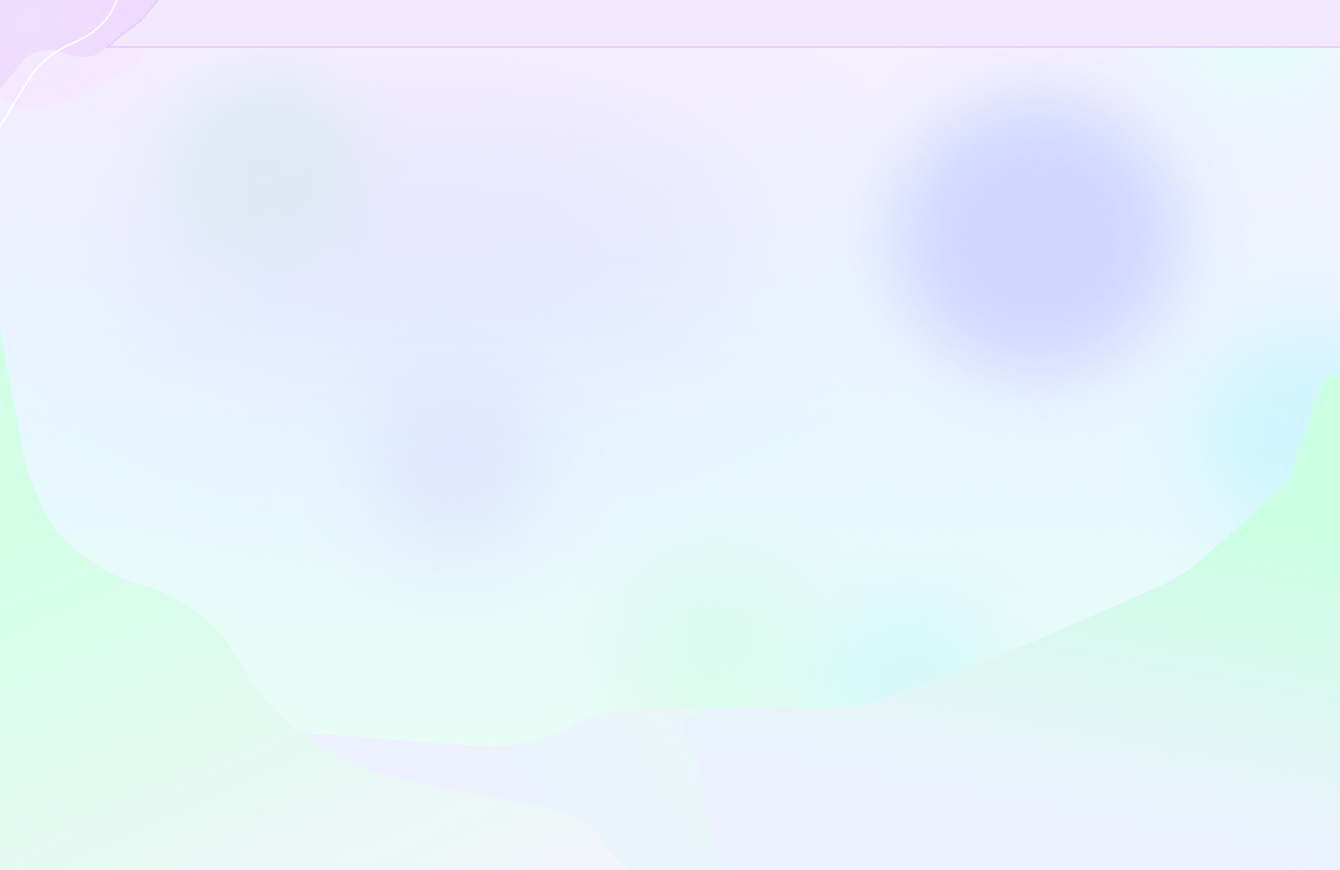
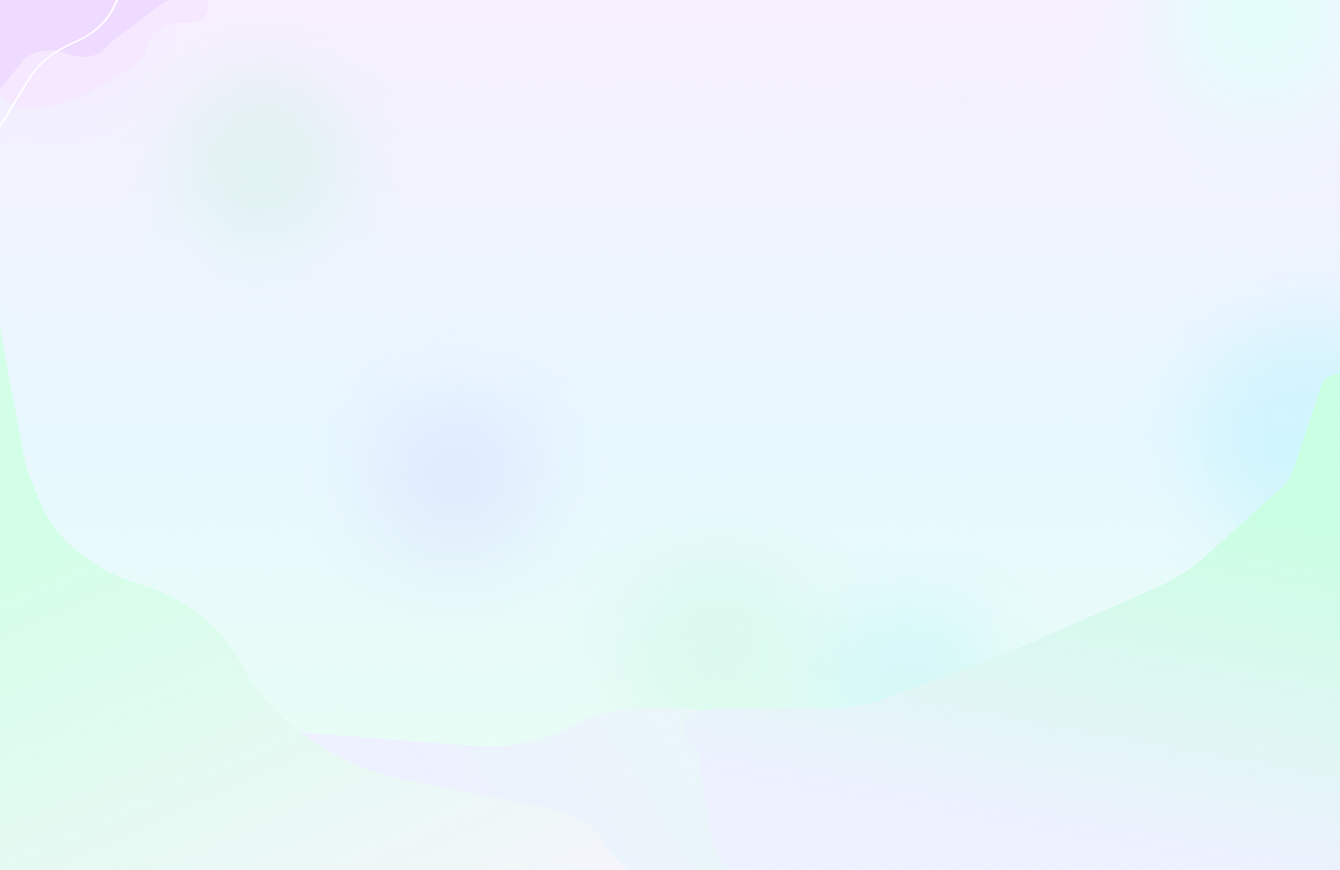
Polish shared controls and keep chat panes independently scrollable

Changed region(s): [[0.6839, 0.1222, 0.8704, 0.3971]]

diff --git a/src/styles.css b/src/styles.css
@@ -18,9 +18,8 @@
 * { box-sizing: border-box; }
 html { scroll-padding-top: 84px; }
 body { margin: 0; min-width: 0; min-height: 100vh; isolation: isolate; }
-/* The original background includes a 54px header strip. Keep that strip above
-   the viewport, and size the artwork to the viewport rather than a long page. */
-body::before { content: ''; position: fixed; inset: calc(-1 * max(64px, 3.6vw, 6svh)) 0 0; z-index: -1; pointer-events: none; background: url('./bg.png') center bottom / cover no-repeat; }
+/* Exported from the concept background frame; keep the wave anchored at the upper left. */
+body::before { content: ''; position: fixed; inset: 0; z-index: -1; pointer-events: none; background: url('./bg.png') left top / cover no-repeat; }
 button, input, select, textarea { font: inherit; }
 button, a, summary { -webkit-tap-highlight-color: transparent; }
 button, summary { cursor: pointer; }
@@ -41,7 +40,7 @@ h1:focus, main:focus { outline: none; }
 .icon { display: inline-block; width: 24px; height: 24px; flex: 0 0 24px; background: currentColor; -webkit-mask: var(--icon-url) center / contain no-repeat; mask: var(--icon-url) center / contain no-repeat; }
 .skip-link { position: fixed; top: 8px; left: 16px; z-index: 100; background: white; padding: 14px; border-radius: 10px; transform: translateY(-180%); }
 .skip-link:focus { transform: none; }
-.button { display: inline-flex; align-items: center; justify-content: center; gap: 8px; padding: 12px 24px; min-height: 44px; border: 1px solid transparent; background: #b185f7; color: #332052; border-radius: 12px; font-weight: 500; text-align: center; line-height: 1.35; cursor: pointer; transition: filter .15s, box-shadow .15s; }
+.button { display: inline-flex; align-items: center; justify-content: center; gap: 8px; padding: 12px 24px; min-height: 44px; border: 1px solid transparent; background: #8b56d9; color: white; border-radius: 12px; font-weight: 500; text-align: center; line-height: 1.35; cursor: pointer; transition: filter .15s, box-shadow .15s; }
 .button:hover { filter: brightness(.96); text-decoration: none; box-shadow: 0 3px 10px #65608019; }
 .button-blue { background: #2470ac; color: white; border-color: #1a577f; }
 .button-green { background: #4b9679; color: #071f18; border-color: #37775f; }
@@ -58,10 +57,10 @@ h1:focus, main:focus { outline: none; }
 .brand span { font-size: 18px; color: #111; font-weight: 800; letter-spacing: -.5px; }
 .brand:hover { text-decoration: none; }
 .language-button { border: 0; background: #b7bcff; border-radius: 24px; min-height: 44px; padding: 8px 12px; color: #2f335e; font-size: 12px; }
-.desktop-nav { display: flex; align-items: center; justify-content: center; gap: 26px; margin: auto; }
-.desktop-nav a { padding: 10px 12px; min-height: 44px; min-width: 116px; display: flex; align-items: center; justify-content: center; border-radius: 25px; background: #8b56d9; color: white; font-size: 12px; font-weight: 500; border: 1px solid #8b56d9; }
+.desktop-nav { display: flex; align-items: center; justify-content: center; gap: 8px; margin: auto; }
+.desktop-nav a { padding: 10px 12px; min-height: 44px; min-width: 116px; display: flex; align-items: center; justify-content: center; border-radius: 14px; background: #8b56d9; color: white; font-size: 13px; font-weight: 500; border: 1px solid #8b56d9; box-shadow: 0 2px 6px #8b56d912; }
 .desktop-nav a.active { background: #dfebff; border-color: #b8c6eb; color: #24263b; }
-.desktop-nav a:hover { text-decoration: none; filter: brightness(.97); }
+.desktop-nav a:hover { text-decoration: none; filter: brightness(.97); box-shadow: 0 3px 10px #7954b926; }
 .header-actions { display: flex; align-items: center; gap: 10px; margin-left: auto; }
 .button-header { min-height: 44px; font-size: 14px; padding: 9px 18px; background: #8b56d9; color: white; white-space: nowrap; flex-shrink: 0; }
 .header-join-short { display: none; }
@@ -100,7 +99,9 @@ h1:focus, main:focus { outline: none; }
 .community-note { margin: 28px 0 0; color: var(--muted); font-size: 15px; max-width: 920px; }
 .people-tools { display: grid; grid-template-columns: minmax(180px,240px) minmax(0,570px); align-items: end; gap: 20px; }
 .people-tools .field { margin-bottom: 0; }
-.people-tools .field select { min-height: 50px; padding: 10px 18px; }
+.people-tools .language-field { position: relative; }
+.people-tools .language-field::after { content: ''; position: absolute; right: 20px; bottom: 22px; width: 8px; height: 8px; border-right: 2px solid #5b4b80; border-bottom: 2px solid #5b4b80; transform: rotate(45deg); pointer-events: none; }
+.people-tools .field select { appearance: none; -webkit-appearance: none; min-height: 50px; padding: 12px 44px 12px 18px; border: 1px solid #c3b2e6; border-radius: 30px; background: #faf7ff; color: #3d2d61; box-shadow: 0 3px 12px #8760c50c; }
 .people-tools .search-box { width: 100%; }
 .fieldset-hint { margin: -8px 0 18px; color: var(--muted); font-size: 14px; max-width: 640px; }
 .site-footer { max-width: 1512px; margin: auto; padding: 12px 52px 24px; display: flex; align-items: center; justify-content: space-between; gap: 12px; color: #62657c; font-size: 13px; }
@@ -131,6 +132,8 @@ input[type=checkbox] { accent-color: #6542a4; width: 20px; height: 20px; flex: 0
 .demo-access .field { margin-bottom: 14px; }
 .search-box { display: flex; align-items: center; gap: 12px; background: white; border-radius: 30px; width: min(100%, 570px); padding: 0 18px; min-height: 50px; color: #676b7e; }
 .search-box input { background: transparent; border: 0; width: 100%; padding: 14px 0; border-radius: 8px; color: var(--ink); font-size: 15px; }
+.search-box:focus-within { outline: 3px solid #5140c9; outline-offset: 4px; }
+.search-box input:focus-visible { outline: none; }
 .search-box input::placeholder { color: #626579; }
 .filters { margin: 16px 0 28px; }
 .filters summary { display: flex; align-items: center; gap: 10px; width: fit-content; min-height: 44px; color: #55596c; list-style: none; }
@@ -172,10 +175,15 @@ input[type=checkbox] { accent-color: #6542a4; width: 20px; height: 20px; flex: 0
 .chip-fieldset legend { font-size: 26px; padding: 0; margin-bottom: 20px; }
 .choice-chips { display: flex; flex-wrap: wrap; gap: 10px; }
 .choice-chip { position: relative; border-radius: 30px; background: #edf3ff; cursor: pointer; }
-.choice-chip input { position: absolute; left: 12px; top: 50%; transform: translateY(-50%); width: 18px; height: 18px; margin: 0; }
+.choice-chip input { appearance: none; -webkit-appearance: none; position: absolute; left: 13px; top: 50%; transform: translateY(-50%); width: 16px; height: 16px; margin: 0; border: 1px solid #a2a8b8; border-radius: 4px; background: #ffffffb3; color: #665583; cursor: pointer; }
+.choice-chip input::before { content: ''; position: absolute; width: 4px; height: 8px; left: 5px; top: 2px; border-right: 1.5px solid currentColor; border-bottom: 1.5px solid currentColor; transform: rotate(45deg); opacity: 0; }
+.choice-chip input:checked { border-color: #9c8eb1; }
+.choice-chip input:checked::before { opacity: 1; }
+.choice-chip.interest input { color: #426b59; }
+.choice-chip.interest input:checked { border-color: #88ad9a; }
 .choice-chip span { display: block; padding: 12px 18px 12px 38px; min-height: 44px; border: 1px solid #aeb8dd; border-radius: 30px; font-size: 14px; }
-.choice-chip.checked.language { background: #dfd1fd; }
-.choice-chip.checked.interest { background: #c8efd9; }
+.choice-chip.checked.language { background: #e8dffc; }
+.choice-chip.checked.interest { background: #ddf2e6; }
 .choice-chip input:focus-visible { outline-offset: 3px; }
 .profile-preview { background: #e5fff0; border-color: #a9d9bc; padding: 32px 24px; position: sticky; top: 94px; min-height: 370px; display: flex; flex-direction: column; }
 .profile-preview .person-heading { flex-wrap: wrap; }
@@ -183,8 +191,9 @@ input[type=checkbox] { accent-color: #6542a4; width: 20px; height: 20px; flex: 0
 .profile-save-mobile { display: none; }
 .back-link { display: inline-flex; align-items: center; justify-content: center; gap: 8px; color: #58358f; min-height: 48px; padding: 12px 18px; margin-bottom: 20px; border: 1px solid #bda8e4; border-radius: 14px; background: #faf7ff; font-weight: 500; touch-action: manipulation; }
 .back-link:hover { background: #eee5ff; text-decoration: none; }
-.study-tabs a { min-height: 52px; font-weight: 500; touch-action: manipulation; }
-.study-tabs a.active { color: #4f319c; background: #e1d7fc; border: 2px solid #9774d2; box-shadow: 0 0 12px #a77bf333; }
+.study-tabs, .question-tabs { max-width: 600px; }
+.study-tabs a, .question-tabs a { min-height: 52px; font-size: 20px; font-weight: 500; touch-action: manipulation; }
+.study-tabs a.active, .question-tabs a.active { color: #4f319c; background: #e1d7fc; border: 2px solid #9774d2; box-shadow: 0 0 12px #a77bf333; }
 .person-layout { display: grid; grid-template-columns: minmax(0,2fr) minmax(300px,1fr); gap: 32px; max-width: 1150px; }
 .person-profile { padding: 32px; }
 .person-profile h3 { margin: 28px 0 14px; }
@@ -251,7 +260,7 @@ input[type=checkbox] { accent-color: #6542a4; width: 20px; height: 20px; flex: 0
 .rating-desktop { position: sticky; top: 96px; }
 .mobile-rating-link { display: none; }
 .study-tabs { margin-bottom: 36px; max-width: 600px; }
-.study-tabs a { font-size: 20px; }
+
 .study-layout { display: grid; grid-template-columns: minmax(0,2fr) minmax(300px,1fr); gap: 34px; align-items: start; }
 .help-cards { display: grid; grid-template-columns: repeat(2,minmax(0,1fr)); gap: 24px; }
 .help-card { padding: 24px; display: flex; flex-direction: column; min-width: 0; }
@@ -281,8 +290,10 @@ input[type=checkbox] { accent-color: #6542a4; width: 20px; height: 20px; flex: 0
 .my-request .field { max-width: 420px; }
 .completed-badge { color: #236748; background: #e3f5e9; border-radius: 12px; padding: 10px; }
 .muted { color: var(--muted); }
-.chats-layout { display: grid; grid-template-columns: minmax(260px,.85fr) minmax(0,2.15fr); gap: 32px; }
-.conversation-list { padding: 24px 18px; }
+.chats-layout { display: grid; grid-template-columns: minmax(260px,.85fr) minmax(0,2.15fr); gap: 32px; height: min(760px,calc(100dvh - 240px)); min-height: 400px; }
+.conversation-list { padding: 24px 18px; display: flex; flex-direction: column; min-height: 0; overflow: hidden; }
+.conversation-list > h2, .conversation-list > .text-link { flex-shrink: 0; }
+.conversation-scroll { flex: 1; min-height: 0; overflow-y: auto; overscroll-behavior: contain; padding: 4px; scrollbar-width: thin; scrollbar-color: #c3b2e6 transparent; }
 .conversation-list h2 { margin-left: 8px; }
 .conversation { display: flex; align-items: center; gap: 12px; padding: 16px 10px; border-radius: 16px; margin-bottom: 10px; }
 .conversation:hover { text-decoration: none; background: #f1efff; }
@@ -291,13 +302,14 @@ input[type=checkbox] { accent-color: #6542a4; width: 20px; height: 20px; flex: 0
 .conversation strong { font-size: 15px; font-weight: 500; display: block; }
 .conversation small { font-size: 13px; color: #606174; margin-top: 8px; display: block; white-space: nowrap; text-overflow: ellipsis; overflow: hidden; }
 .conversation-list .text-link { margin: 10px; }
-.chat-panel { border-color: #ad93ec; padding: 24px; min-width: 0; }
+.chat-panel { border-color: #ad93ec; padding: 24px; min-width: 0; min-height: 0; display: flex; flex-direction: column; }
+.chat-panel > .chat-person, .chat-panel > .message-form { flex-shrink: 0; }
 .chat-person { border-bottom: 1px solid #ece8f5; padding-bottom: 18px; }
 .chat-person .tags { margin: 8px 0 0; }
 .chat-person .tags li { background: transparent; padding: 0; }
-.message-scroll { height: min(48vh,470px); min-height: 250px; overflow: auto; display: flex; flex-direction: column; gap: 16px; padding: 12px 8px; overscroll-behavior: contain; }
+.message-scroll { flex: 1; min-height: 0; overflow: auto; display: flex; flex-direction: column; gap: 16px; padding: 12px 8px; overscroll-behavior: contain; }
 .message-date { font-size: 13px; color: #626579; text-align: center; margin: 0 0 6px; }
-.message { border: 1px solid #cbcbd6; padding: 14px 16px; border-radius: 16px; max-width: 78%; }
+.message { flex-shrink: 0; border: 1px solid #cbcbd6; padding: 14px 16px; border-radius: 16px; max-width: 78%; }
 .message p { white-space: pre-wrap; margin: 0 0 8px; font-size: 15px; }
 .message time { display: block; font-size: 11px; color: #575f74; text-align: right; }
 .message.outgoing { align-self: flex-end; background: #dce4ff; border-color: #a89ef2; }
@@ -305,8 +317,13 @@ input[type=checkbox] { accent-color: #6542a4; width: 20px; height: 20px; flex: 0
 .message-form { position: relative; margin-top: 16px; }
 .message-form .field { margin-bottom: 0; }
 .message-form .field label { position: absolute; height: 1px; width: 1px; overflow: hidden; clip-path: inset(50%); }
-.message-form .field textarea { background: #f7f7fa; border-color: #b7a0e9; padding-right: 58px; min-height: 60px; }
-.send-button { position: absolute; bottom: 34px; right: 8px; color: #51368a; }
+.message-field .field-control { display: flex; align-items: center; gap: 8px; padding: 8px; border: 1px solid #b7a0e9; border-radius: 20px; background: #f7f7fa; }
+.message-field .field-control:focus-within { outline: 3px solid #5140c9; outline-offset: 4px; }
+.message-form .field textarea { background: transparent; border: 0; border-radius: 12px; min-height: 60px; max-height: 180px; padding: 8px 10px; }
+.message-form .field textarea:focus-visible { outline: none; }
+.message-field .field-control:has([aria-invalid=true]) { border-color: #a92540; }
+.send-button { color: #696969; border-radius: 12px; }
+.send-button .icon { width: 33px; height: 33px; flex-basis: 33px; }
 .message-key-hint { font-size: 11px; color: #626579; margin: 8px 0 0; }
 .mobile-back { display: none; }
 .dialog { padding: 28px; width: min(calc(100% - 32px),480px); max-height: calc(100dvh - 32px); overflow: auto; border: 1px solid #c6b1e9; border-radius: 24px; box-shadow: 0 20px 100px #2d1f493b; color: var(--ink); background: #fff; }
@@ -327,10 +344,8 @@ input[type=checkbox] { accent-color: #6542a4; width: 20px; height: 20px; flex: 0
 @media (min-width: 901px) {
   .header-inner { max-width: 1512px; min-height: 54px; padding: 5px 9px; }
   .brand span { font-size: 16px; }
-  .desktop-nav a, .language-button, .button-header { position: relative; isolation: isolate; background: transparent; border: 0; }
-  .desktop-nav a::before, .language-button::before, .button-header::before { content: ''; position: absolute; z-index: -1; inset: 10px 0; border-radius: 11px; background: #8b56d9; pointer-events: none; }
-  .desktop-nav a.active { background: transparent; }
-  .desktop-nav a.active::before { background: #dfeaff; border: 1px solid #a8c6ff; }
+  .language-button, .button-header { position: relative; isolation: isolate; background: transparent; border: 0; }
+  .language-button::before, .button-header::before { content: ''; position: absolute; z-index: -1; inset: 6px 0; border-radius: 12px; background: #8b56d9; pointer-events: none; }
   .language-button { min-width: 67px; }
   .language-button::before { background: #b7bcff; }
   .button-header { min-width: 179px; font-size: 16px; }
@@ -418,8 +433,9 @@ input[type=checkbox] { accent-color: #6542a4; width: 20px; height: 20px; flex: 0
   .bottom-nav a { display: flex; flex-direction: column; align-items: center; justify-content: center; gap: 7px; color: #5f6172; min-height: 54px; padding: 2px; }
   .bottom-nav a:hover { text-decoration: none; }
   .bottom-nav span:last-child { font-size: 11px; padding: 4px 9px; border-radius: 20px; line-height: 1.25; }
-  .bottom-nav a.active { color: #202033; }
-  .bottom-nav a.active span:last-child { background: #dceaff; }
+  .bottom-nav a { border-radius: 16px; margin-inline: 2px; }
+  .bottom-nav a.active { color: #4f319c; background: #e0dcff; }
+  .bottom-nav a.active span:last-child { font-weight: 600; }
   .toast { bottom: calc(88px + env(safe-area-inset-bottom)); width: calc(100% - 32px); }
   .auth-panel { padding: 24px 20px; }
   .segmented { gap: 8px; }
@@ -472,7 +488,7 @@ input[type=checkbox] { accent-color: #6542a4; width: 20px; height: 20px; flex: 0
   .rating-list .avatar { width: 36px; height: 36px; font-size: 14px; }
   .rating-list small { font-size: 11px; }
   .study-tabs { margin-bottom: 24px; }
-  .study-tabs a { font-size: 15px; }
+  .study-tabs a, .question-tabs a { font-size: 15px; }
   .study-request-layout { grid-template-columns: 1fr; gap: 20px; }
   .help-form h2 { font-size: 23px; }
   .help-form .button { min-width: 0; width: 100%; }
@@ -482,8 +498,8 @@ input[type=checkbox] { accent-color: #6542a4; width: 20px; height: 20px; flex: 0
   .help-cards .load-more { grid-column: auto; }
   .help-card { padding: 22px; }
   .help-card h2 { font-size: 20px; }
-  .chats-layout { display: block; }
-  .conversation-list { padding: 20px 14px; }
+  .chats-layout { display: block; height: auto; min-height: 0; }
+  .conversation-list { padding: 20px 14px; height: calc(100dvh - 240px); min-height: 340px; }
   .chats-layout:not(.chat-open) .chat-panel { display: none; }
   .chats-layout.chat-open .conversation-list { display: none; }
   .site-main:has(.chat-open) { padding-top: 16px; padding-bottom: 20px; }
@@ -495,15 +511,15 @@ input[type=checkbox] { accent-color: #6542a4; width: 20px; height: 20px; flex: 0
   .chat-person h2 { font-size: 18px; }
   .chat-person .tags li { font-size: 11px; }
   .mobile-back { display: inline-flex; margin-bottom: 14px; }
-  .message-scroll { height: calc(100dvh - 435px); min-height: 200px; padding: 8px 0; }
-  .chat-open .message-scroll { flex: 1; height: auto; min-height: 100px; }
+  .message-scroll { padding: 8px 0; }
+  .chat-open .message-scroll { min-height: 0; }
   .chat-open .mobile-back { flex-shrink: 0; margin-bottom: 8px; min-height: 32px; font-size: 14px; }
   .chat-open .chat-person { flex-shrink: 0; margin-bottom: 8px; }
   .chat-open .message-form { flex-shrink: 0; margin-top: 8px; }
   .message { max-width: 90%; padding: 12px 14px; }
   .message p { font-size: 15px; }
   .message-key-hint { display: none; }
-  .send-button { bottom: 8px; }
+
   .dialog { padding: 20px; }
   .dialog-heading h2 { font-size: 25px; }
   .menu-language { align-items: start; flex-direction: column; }

diff --git a/src/Chats.jsx b/src/Chats.jsx
@@ -14,5 +14,5 @@ export function Chats({ id }) {
   function submit(e) { e.preventDefault(); if (!body.trim()) { setErrors({ body: t('Напиши сообщение.','Write a message.') }); return; } setState(s => sendMessage(s,me.id,current.id,body));setBody('');setErrors({}); }
   const date = value => new Intl.DateTimeFormat(locale === 'ru' ? 'ru-RU' : 'en-GB', { day: 'numeric', month: 'long' }).format(value);
   const time = value => new Intl.DateTimeFormat(locale === 'ru' ? 'ru-RU' : 'en-GB', { hour: '2-digit', minute: '2-digit' }).format(value);
-  return <><PageTitle title={t('Общение','Messages')} description={t('Твои разговоры со студентами','Your conversations with other students')} /><div className={`chats-layout ${id ? 'chat-open' : ''}`}><aside className="conversation-list panel" aria-label={t('Список диалогов','Conversations')}><h2>{t('Сообщения','Messages')}</h2>{chats.length ? chats.map(chat => { const user = state.users.find(u => u.id === chat.members.find(m => m !== me.id)); return <Link to={`/chats/${chat.id}`} key={chat.id} className={current?.id === chat.id ? 'conversation active' : 'conversation'} aria-current={current?.id === chat.id ? 'page' : undefined}><Avatar user={user} /><span><strong>{fullName(user)}</strong><small>{chat.messages.at(-1)?.body || t('Начни разговор','Start a conversation')}</small></span></Link>; }) : <p className="muted">{t('Здесь появятся твои диалоги.','Your conversations will appear here.')}</p>}<Link to="/people" className="text-link">{t('Найти новых людей','Meet new people')}</Link></aside><section className="chat-panel panel" aria-label={t('Переписка','Conversation')}>{current ? <><Link to="/chats" className="back-link mobile-back">← {t('Все сообщения','All messages')}</Link><Link to={`/people/${partner.id}`} className="chat-person person-heading"><Avatar user={partner} /><div><h2>{fullName(partner)}</h2><Tags values={partner.languages} /></div></Link><div className="message-scroll" ref={listRef} aria-label={t('Сообщения диалога','Conversation messages')} tabIndex={0}>{current.messages.length ? current.messages.map((message,index) => <React.Fragment key={message.id}>{(index === 0 || date(message.createdAt) !== date(current.messages[index - 1].createdAt)) && <p className="message-date">{date(message.createdAt)}</p>}<article className={`message ${message.senderId === me.id ? 'outgoing' : 'incoming'}`} aria-label={message.senderId === me.id ? t('Твоё сообщение','Your message') : fullName(partner)}><p>{message.body}</p><time dateTime={new Date(message.createdAt).toISOString()}>{time(message.createdAt)}</time></article></React.Fragment>) : <Empty title={t('Начните с приветствия','Start with a hello')} description={t('Расскажи, что у вас общего.','Talk about what you have in common.')} />}</div><form ref={formRef} className="message-form" onSubmit={submit} noValidate><FormErrors errors={errors} /><Field label={t('Написать сообщение','Write a message')} error={errors.body}><textarea rows={2} value={body} onChange={e => setBody(e.target.value)} onKeyDown={e => { if (e.key === 'Enter' && !e.shiftKey && !e.nativeEvent.isComposing) { e.preventDefault(); formRef.current.requestSubmit(); } }} maxLength={2000} required placeholder={t('Написать сообщение','Write a message')} /></Field><button type="submit" className="icon-button send-button" aria-label={t('Отправить сообщение','Send message')}><Icon name="arrow" /></button><p className="message-key-hint">{t('Enter отправляет сообщение. Shift + Enter добавляет новую строку.','Enter sends the message. Shift + Enter adds a new line.')}</p></form></> : <Empty title={t('Выбери собеседника','Choose someone to talk to')} description={t('Познакомься с людьми и начни общение.','Meet people and start a conversation.')}><Link to="/people" className="button">{t('Знакомства','Meet people')}</Link></Empty>}</section></div></>;
+  return <><PageTitle title={t('Общение','Messages')} description={t('Твои разговоры со студентами','Your conversations with other students')} /><div className={`chats-layout ${id ? 'chat-open' : ''}`}><aside className="conversation-list panel" aria-label={t('Список диалогов','Conversations')}><h2>{t('Сообщения','Messages')}</h2><div className="conversation-scroll" role="region" aria-label={t('Диалоги','Chat list')} tabIndex={0}>{chats.length ? chats.map(chat => { const user = state.users.find(u => u.id === chat.members.find(m => m !== me.id)); return <Link to={`/chats/${chat.id}`} key={chat.id} className={current?.id === chat.id ? 'conversation active' : 'conversation'} aria-current={current?.id === chat.id ? 'page' : undefined}><Avatar user={user} /><span><strong>{fullName(user)}</strong><small>{chat.messages.at(-1)?.body || t('Начни разговор','Start a conversation')}</small></span></Link>; }) : <p className="muted">{t('Здесь появятся твои диалоги.','Your conversations will appear here.')}</p>}</div><Link to="/people" className="text-link">{t('Найти новых людей','Meet new people')}</Link></aside><section className="chat-panel panel" aria-label={t('Переписка','Conversation')}>{current ? <><Link to="/chats" className="back-link mobile-back">← {t('Все сообщения','All messages')}</Link><Link to={`/people/${partner.id}`} className="chat-person person-heading"><Avatar user={partner} /><div><h2>{fullName(partner)}</h2><Tags values={partner.languages} /></div></Link><div className="message-scroll" ref={listRef} aria-label={t('Сообщения диалога','Conversation messages')} tabIndex={0}>{current.messages.length ? current.messages.map((message,index) => <React.Fragment key={message.id}>{(index === 0 || date(message.createdAt) !== date(current.messages[index - 1].createdAt)) && <p className="message-date">{date(message.createdAt)}</p>}<article className={`message ${message.senderId === me.id ? 'outgoing' : 'incoming'}`} aria-label={message.senderId === me.id ? t('Твоё сообщение','Your message') : fullName(partner)}><p>{message.body}</p><time dateTime={new Date(message.createdAt).toISOString()}>{time(message.createdAt)}</time></article></React.Fragment>) : <Empty title={t('Начните с приветствия','Start with a hello')} description={t('Расскажи, что у вас общего.','Talk about what you have in common.')} />}</div><form ref={formRef} className="message-form" onSubmit={submit} noValidate><FormErrors errors={errors} /><Field label={t('Написать сообщение','Write a message')} error={errors.body} className="message-field" endAdornment={<button type="submit" className="icon-button send-button" aria-label={t('Отправить сообщение','Send message')}><Icon name="send" /></button>}><textarea rows={2} value={body} onChange={e => setBody(e.target.value)} onKeyDown={e => { if (e.key === 'Enter' && !e.shiftKey && !e.nativeEvent.isComposing) { e.preventDefault(); formRef.current.requestSubmit(); } }} maxLength={2000} required placeholder={t('Написать сообщение','Write a message')} /></Field><p className="message-key-hint">{t('Enter отправляет сообщение. Shift + Enter добавляет новую строку.','Enter sends the message. Shift + Enter adds a new line.')}</p></form></> : <Empty title={t('Выбери собеседника','Choose someone to talk to')} description={t('Познакомься с людьми и начни общение.','Meet people and start a conversation.')}><Link to="/people" className="button">{t('Знакомства','Meet people')}</Link></Empty>}</section></div></>;
 }

diff --git a/src/PeopleProfile.jsx b/src/PeopleProfile.jsx
@@ -10,7 +10,7 @@ export function People() {
   const changeFilter = (key,value) => { setFilters(f => ({ ...f, [key]: value })); setLimit(4); };
   const results = state.users.filter(u => u.id !== me?.id && u.direction && matches([fullName(u),u.direction,u.about,...u.interests,...u.languages].join(' '),term) && (!filters.language || u.languages.includes(filters.language)) && (!filters.interest || u.interests.includes(filters.interest)) && (!filters.course || u.course === Number(filters.course)) && (!filters.direction || u.direction === filters.direction) && (!filters.shared || commonItems(me?.languages,u.languages).length)).sort((a,b) => commonItems(me?.languages,b.languages).length - commonItems(me?.languages,a.languages).length);
   function reset() { setTerm(''); setFilters(blankFilters); setLimit(4); }
-  return <><PageTitle title={t('Знакомства','Meet people')} description={t('Сначала выбери язык, на котором тебе удобно общаться, затем уточни интересы.','First choose a language you are comfortable speaking, then narrow down by interests.')} /><div className="people-tools"><Field label={t('Язык','Language')}><select value={filters.language} onChange={e => changeFilter('language',e.target.value)}><option value="">{t('Все языки','All languages')}</option>{LANGUAGES.map(v => <option key={v}>{v}</option>)}</select></Field><div className="search-box"><Icon name="search" /><input type="search" aria-label={t('Поиск по имени или интересам','Search by name or interests')} placeholder={t('Поиск по имени или интересам','Search by name or interests')} value={term} onChange={e => { setTerm(e.target.value); setLimit(4); }} /></div></div><details className="filters"><summary><Icon name="filter" />{t('Фильтры','Filters')}</summary><div className="filter-fields"><Field label={t('Интерес','Interest')}><select value={filters.interest} onChange={e => changeFilter('interest',e.target.value)}><option value="">{t('Все интересы','All interests')}</option>{INTERESTS.map(v => <option key={v}>{v}</option>)}</select></Field><Field label={t('Курс','Year')}><select value={filters.course} onChange={e => changeFilter('course',e.target.value)}><option value="">{t('Любой курс','Any year')}</option>{[1,2,3,4,5,6].map(v => <option key={v}>{v}</option>)}</select></Field><Field label={t('Направление','Programme')}><select value={filters.direction} onChange={e => changeFilter('direction',e.target.value)}><option value="">{t('Все направления','All programmes')}</option>{[...new Set(state.users.map(u => u.direction).filter(Boolean))].map(v => <option key={v}>{v}</option>)}</select></Field><label className="check-line"><input type="checkbox" disabled={!me} checked={filters.shared} onChange={e => changeFilter('shared',e.target.checked)} />{t('Есть общий язык','Shared language')}</label><button type="button" className="text-link" onClick={reset}>{t('Сбросить фильтры','Reset filters')}</button></div></details><div className="results-heading"><h2>{t('Найди собеседника','Find someone to talk to')}</h2><p role="status">{t(`Найдено: ${results.length}`,`Found: ${results.length}`)}</p></div>{results.length ? <div className="student-grid">{results.slice(0,limit).map(user => <StudentCard key={user.id} user={user} />)}</div> : <Empty title={t('Пока никого не нашли','No matches yet')} description={t('Попробуй другой запрос или убери часть фильтров.','Try another search or fewer filters.')}><button type="button" className="button button-outline" onClick={reset}>{t('Сбросить поиск','Reset search')}</button></Empty>}{limit < results.length && <button type="button" className="button button-outline load-more" onClick={() => setLimit(l => l + 4)}>{t('Показать ещё','Show more')}</button>}</>;
+  return <><PageTitle title={t('Знакомства','Meet people')} description={t('Сначала выбери язык, на котором тебе удобно общаться, затем уточни интересы.','First choose a language you are comfortable speaking, then narrow down by interests.')} /><div className="people-tools"><Field label={t('Язык','Language')} className="language-field"><select value={filters.language} onChange={e => changeFilter('language',e.target.value)}><option value="">{t('Все языки','All languages')}</option>{LANGUAGES.map(v => <option key={v}>{v}</option>)}</select></Field><div className="search-box"><Icon name="search" /><input type="search" aria-label={t('Поиск по имени или интересам','Search by name or interests')} placeholder={t('Поиск по имени или интересам','Search by name or interests')} value={term} onChange={e => { setTerm(e.target.value); setLimit(4); }} /></div></div><details className="filters"><summary><Icon name="filter" />{t('Фильтры','Filters')}</summary><div className="filter-fields"><Field label={t('Интерес','Interest')}><select value={filters.interest} onChange={e => changeFilter('interest',e.target.value)}><option value="">{t('Все интересы','All interests')}</option>{INTERESTS.map(v => <option key={v}>{v}</option>)}</select></Field><Field label={t('Курс','Year')}><select value={filters.course} onChange={e => changeFilter('course',e.target.value)}><option value="">{t('Любой курс','Any year')}</option>{[1,2,3,4,5,6].map(v => <option key={v}>{v}</option>)}</select></Field><Field label={t('Направление','Programme')}><select value={filters.direction} onChange={e => changeFilter('direction',e.target.value)}><option value="">{t('Все направления','All programmes')}</option>{[...new Set(state.users.map(u => u.direction).filter(Boolean))].map(v => <option key={v}>{v}</option>)}</select></Field><label className="check-line"><input type="checkbox" disabled={!me} checked={filters.shared} onChange={e => changeFilter('shared',e.target.checked)} />{t('Есть общий язык','Shared language')}</label><button type="button" className="text-link" onClick={reset}>{t('Сбросить фильтры','Reset filters')}</button></div></details><div className="results-heading"><h2>{t('Найди собеседника','Find someone to talk to')}</h2><p role="status">{t(`Найдено: ${results.length}`,`Found: ${results.length}`)}</p></div>{results.length ? <div className="student-grid">{results.slice(0,limit).map(user => <StudentCard key={user.id} user={user} />)}</div> : <Empty title={t('Пока никого не нашли','No matches yet')} description={t('Попробуй другой запрос или убери часть фильтров.','Try another search or fewer filters.')}><button type="button" className="button button-outline" onClick={reset}>{t('Сбросить поиск','Reset search')}</button></Empty>}{limit < results.length && <button type="button" className="button button-outline load-more" onClick={() => setLimit(l => l + 4)}>{t('Показать ещё','Show more')}</button>}</>;
 }
 
 function profileValues(me) { return { firstName: me?.firstName || '', lastName: me?.lastName || '', direction: me?.direction || '', course: me?.course || 1, languages: me?.languages || [], interests: me?.interests || [], about: me?.about || '', skills: me?.skills?.join(', ') || '' }; }

diff --git a/tests/e2e/site.spec.js b/tests/e2e/site.spec.js
@@ -142,6 +142,64 @@ test('Search, filters, empty state, person profile and real local chat messages'
   await expect(page.locator('.message.incoming').last()).toContainText('Привет, Вэй!');
 });
 
+test('Long chat lists and messages scroll independently while the composer stays in place', async ({ page, request }, testInfo) => {
+  await demo(page, 'alina', '/chats/c1');
+  await page.evaluate(() => {
+    const state = JSON.parse(localStorage.getItem('medium.frontend.v1'));
+    const chat = state.chats.find(c => c.id === 'c1');
+    chat.messages = Array.from({ length: 60 }, (_, i) => ({ id: `long-${i}`, senderId: i % 2 ? 'wei' : 'alina', body: `Сообщение ${i + 1}: обсуждаем занятия и кампус.`, createdAt: Date.now() + i }));
+    const copies = Array.from({ length: 35 }, (_, i) => ({ ...chat, id: `list-${i}`, messages: chat.messages.slice(0, 1) }));
+    state.chats.push(...copies);
+    localStorage.setItem('medium.frontend.v1', JSON.stringify(state));
+  });
+  await page.reload();
+  for (const width of [1440, 390, 320]) {
+    await page.setViewportSize({ width, height: 844 });
+    await page.goto('/#/chats/c1');
+    const composer = page.locator('.message-field .field-control');
+    const send = page.getByRole('button', { name: 'Отправить сообщение' });
+    const before = await composer.boundingBox();
+    const button = await send.boundingBox();
+    expect(button.width).toBeGreaterThanOrEqual(44);
+    expect(button.height).toBeGreaterThanOrEqual(44);
+    expect(Math.abs(button.y + button.height / 2 - before.y - before.height / 2)).toBeLessThan(1);
+    expect(button.x + button.width).toBeLessThanOrEqual(before.x + before.width);
+    const scroll = page.locator('.message-scroll');
+    const dimensions = await scroll.evaluate(el => ({ height: el.clientHeight, full: el.scrollHeight }));
+    expect(dimensions.full).toBeGreaterThan(dimensions.height);
+    await scroll.evaluate(el => { el.scrollTop = 0; });
+    await expect(scroll).toHaveJSProperty('scrollTop', 0);
+    const after = await composer.boundingBox();
+    expect(Math.abs(after.y - before.y)).toBeLessThan(1);
+    await expect(send.locator('.icon')).toHaveAttribute('style', /send\.svg/);
+    await send.click();
+    await expect(page.getByRole('alert')).toContainText('Напиши сообщение');
+    const inputBox = await composer.boundingBox();
+    const errorButton = await send.boundingBox();
+    expect(Math.abs(errorButton.y + errorButton.height / 2 - inputBox.y - inputBox.height / 2)).toBeLessThan(1);
+    await page.getByLabel('Написать сообщение', { exact: true }).fill('Проверка самолётика');
+    await send.click();
+    await expect(page.locator('.message.outgoing').last()).toContainText('Проверка самолётика');
+    await page.goto('/#/chats');
+    const chats = page.getByRole('region', { name: 'Диалоги', exact: true });
+    const listBefore = await chats.boundingBox();
+    const list = await chats.evaluate(el => ({ height: el.clientHeight, full: el.scrollHeight }));
+    expect(list.full).toBeGreaterThan(list.height);
+    await chats.evaluate(el => { el.scrollTop = el.scrollHeight; });
+    expect(await chats.evaluate(el => el.scrollTop)).toBeGreaterThan(0);
+    const listAfter = await chats.boundingBox();
+    expect(listAfter.height).toBe(listBefore.height);
+  }
+  const response = await request.get('/assets/send.svg');
+  expect(response.status()).toBe(200);
+  if (testInfo.project.name === 'chromium') {
+    await mkdir('docs/screenshots', { recursive: true });
+    await page.setViewportSize({ width: 1440, height: 900 });
+    await page.goto('/#/chats/c1');
+    await page.screenshot({ path: 'docs/screenshots/desktop-long-chat.png', fullPage: true });
+  }
+});
+
 test('Keyboard navigation, native modal focus and arrow-key star selection', async ({ page }) => {
   await demo(page, 'alina', '/questions/q1');
   const group = page.getByRole('radiogroup', { name: 'Оценка ответа Мария Соколова' });

diff --git a/src/App.jsx b/src/App.jsx
@@ -24,5 +24,5 @@ export default function App() {
   else if (route.path === '/chats' || parts[0] === 'chats' && parts.length === 2) page = <Chats id={parts[1]} />;
   else if (route.path === '/menu') page = <><PageTitle title={t('Меню','Menu')} /><section className="menu-page panel"><MenuContent /></section></>;
   else page = <><PageTitle title={t('Страница не найдена','Page not found')} /><Empty title={t('Открой главную страницу','Open the home page')}><Link to="/" className="button">{t('На главную','Go home')}</Link></Empty></>;
-  return <><a className="skip-link" href="#main" onClick={e => { e.preventDefault(); main.current.focus(); }}>{t('Перейти к содержимому','Skip to content')}</a><Header path={route.path} onMenu={() => { menuRoute.current = window.location.hash; setMenu(true); }} /><main id="main" tabIndex={-1} ref={main} className={`site-main ${route.path === '/' ? 'home-main' : ''}`}>{storageError && <p role="alert" className="storage-error">{t('Браузер не разрешает сохранить данные. Изменения доступны до закрытия страницы.','This browser does not allow saving data. Changes are available until you close the page.')}</p>}{page}</main><footer className="site-footer"><p>{t('Медиум — твой круг возможностей','Medium — your circle of possibilities')}</p><Link to="/menu">{t('Все разделы','All sections')}</Link></footer><BottomNav path={route.path} /><Dialog navigationKey={`${route.path}?${route.search}`} open={menu} onClose={() => setMenu(false)} onAfterClose={() => { if (menuRoute.current !== window.location.hash) main.current?.querySelector('h1')?.focus({ preventScroll: true }); }} title={t('Меню','Menu')} className="menu-dialog"><MenuContent onClose={() => setMenu(false)} /></Dialog><div role="status" aria-live="polite" className={notice ? 'toast visible' : 'toast'}>{notice}</div></>;
+  return <><a className="skip-link" href="#main" onClick={e => { e.preventDefault(); main.current.focus(); }}>{t('Перейти к содержимому','Skip to content')}</a><Header path={route.path} onMenu={() => { menuRoute.current = window.location.hash; setMenu(true); }} /><main id="main" tabIndex={-1} ref={main} className={`site-main ${route.path === '/' ? 'home-main' : ''}`}>{storageError && <p role="alert" className="storage-error">{t('Браузер не разрешает сохранить данные. Изменения доступны до закрытия страницы.','This browser does not allow saving data. Changes are available until you close the page.')}</p>}{page}</main><footer className="site-footer"><p>{t('Медиум — твой круг возможностей','Medium — your circle of possibilities')}</p></footer><BottomNav path={route.path} /><Dialog navigationKey={`${route.path}?${route.search}`} open={menu} onClose={() => setMenu(false)} onAfterClose={() => { if (menuRoute.current !== window.location.hash) main.current?.querySelector('h1')?.focus({ preventScroll: true }); }} title={t('Меню','Menu')} className="menu-dialog"><MenuContent onClose={() => setMenu(false)} /></Dialog><div role="status" aria-live="polite" className={notice ? 'toast visible' : 'toast'}>{notice}</div></>;
 }

diff --git a/src/components.jsx b/src/components.jsx
@@ -10,9 +10,9 @@ export function Avatar({ user, large = false }) { return <span aria-hidden="true
 export function Tags({ values, kind = 'language' }) { const { t } = useApp(); return <ul className={`tags tags-${kind}`} aria-label={kind === 'language' ? t('Языки','Languages') : t('Интересы','Interests')}>{values.map(value => <li key={value}>{value}</li>)}</ul>; }
 export function PageTitle({ title, description }) { return <div className="page-title"><h1 tabIndex={-1}>{title}</h1>{description && <p>{description}</p>}</div>; }
 export function Empty({ title, description, children }) { return <div className="empty-state panel"><h2>{title}</h2>{description && <p>{description}</p>}{children}</div>; }
-export function Field({ label, error, id, children, className = '' }) {
+export function Field({ label, error, id, children, className = '', endAdornment }) {
   const autoId = useId(); const controlId = id || autoId;
-  return <div className={`field ${className}`}><label htmlFor={controlId}>{label}</label>{React.cloneElement(children, { id: controlId, 'aria-invalid': error ? 'true' : undefined, 'aria-describedby': error ? `${controlId}-error` : children.props['aria-describedby'] })}{error && <p id={`${controlId}-error`} className="field-error">{error}</p>}</div>;
+  return <div className={`field ${className}`}><label htmlFor={controlId}>{label}</label>{endAdornment ? <div className="field-control">{React.cloneElement(children, { id: controlId, 'aria-invalid': error ? 'true' : undefined, 'aria-describedby': error ? `${controlId}-error` : children.props['aria-describedby'] })}{endAdornment}</div> : React.cloneElement(children, { id: controlId, 'aria-invalid': error ? 'true' : undefined, 'aria-describedby': error ? `${controlId}-error` : children.props['aria-describedby'] })}{error && <p id={`${controlId}-error`} className="field-error">{error}</p>}</div>;
 }
 export function FormErrors({ errors }) { const { t } = useApp(); const list = Object.values(errors).filter(Boolean); return list.length ? <div className="form-errors" role="alert"><strong>{t('Проверь поля формы', 'Please check the form')}</strong><ul>{list.map((e, i) => <li key={i}>{e}</li>)}</ul></div> : null; }
 export function Dialog({ open, onClose, onAfterClose, navigationKey = '', title, children, className = '' }) {

diff --git a/src/motion.css b/src/motion.css
@@ -11,9 +11,10 @@
 .button:not(:disabled):active, .icon-button:not(:disabled):active, .back-link:active {
   transform: scale(.98);
 }
-.field input, .field textarea, .field select, .search-box {
+.field input, .field textarea, .field select, .search-box, .message-field .field-control {
   transition: border-color var(--motion-fast), box-shadow var(--motion-fast), background-color var(--motion-fast);
 }
+.desktop-nav a, .bottom-nav a { transition: color var(--motion-fast), background-color var(--motion-fast), box-shadow var(--motion-fast); }
 .choice-chip { transition: background-color var(--motion-fast); }
 .choice-chip span { transition: border-color var(--motion-fast); }
 .choice-chip input { accent-color: #7042c3; }
@@ -30,8 +31,8 @@
   transform: translateX(calc(var(--active-index) * (100% + 10px)));
   transition: transform var(--motion-normal) var(--motion-ease);
 }
-.study-tabs .segment-indicator { background: #e1d7fc; border: 2px solid #9774d2; box-shadow: 0 0 12px #a77bf333; }
-.motion-segmented.study-tabs a.active { border: 1px solid #b9bcc5; box-shadow: none; }
+.study-tabs .segment-indicator, .question-tabs .segment-indicator { background: #e1d7fc; border: 2px solid #9774d2; box-shadow: 0 0 12px #a77bf333; }
+.motion-segmented.study-tabs a.active, .motion-segmented.question-tabs a.active { border: 1px solid #b9bcc5; box-shadow: none; }
 .tab-content { animation: content-enter var(--motion-normal) var(--motion-ease); }
 
 .dialog[open] { animation: dialog-enter var(--motion-normal) var(--motion-ease) both; }
